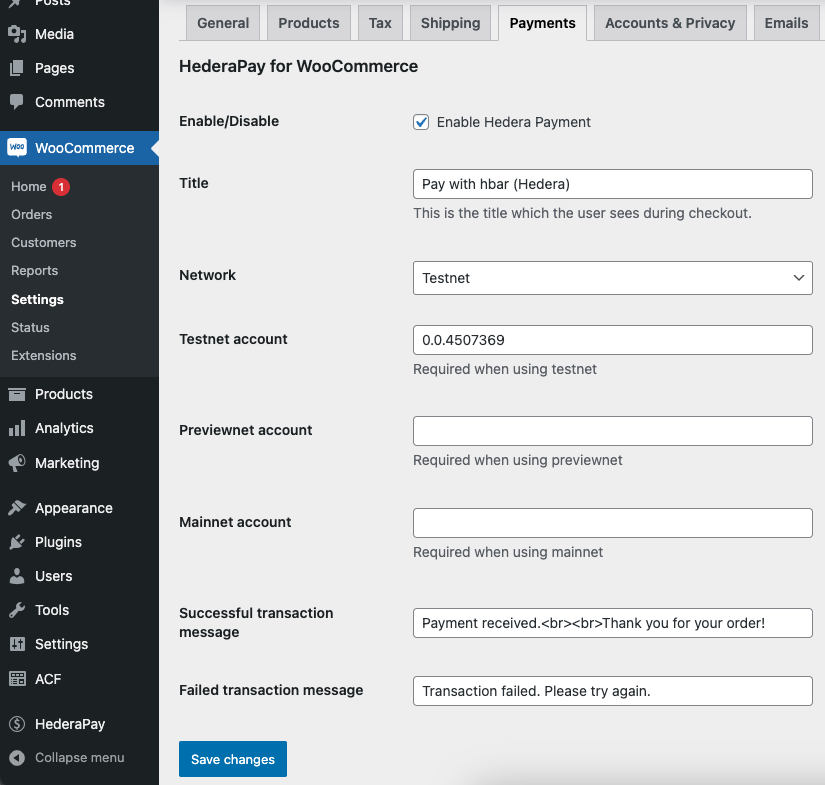
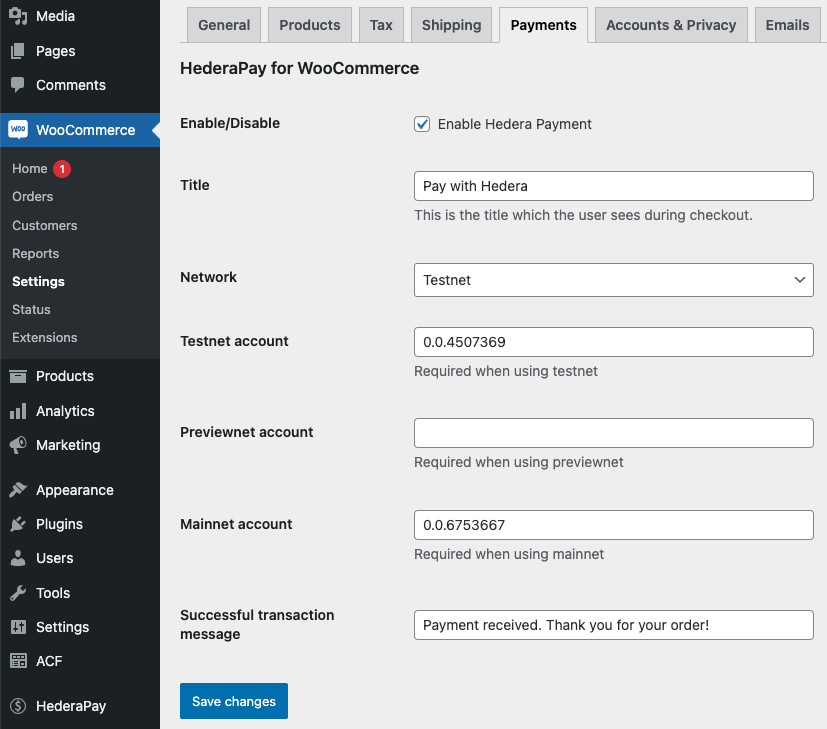
update hederapay readme

diff --git a/hederapay/gateway.php b/hederapay/gateway.php
@@ -53,7 +53,7 @@ class WC_Gateway_Hederapay extends WC_Payment_Gateway
             'success_message' => array(
                 'title' => 'Successful transaction message',
                 'type' => 'text',
-                'default' => 'Payment received.<br><br>Thank you for your order!',
+                'default' => 'Payment received. Thank you for your order!',
 
             ),
         );

diff --git a/hederapay/README.md b/hederapay/README.md
@@ -5,7 +5,7 @@ HederaPay allows users to integrate Hedera transactions into their WordPress web
 ## Dependencies (OPTIONAL)
 
 -   (OPTIONAL) [Advanced Custom Fields PRO](https://www.advancedcustomfields.com/pro/)
-    -   If ACF PRO is installed, the plugin adds easy to use Gutenberg blocks (these blocks have the same functionality as the shortcodes).
+    -   If ACF PRO is installed, the plugin adds an easy to use Gutenberg block (these blocks have the same functionality as the shortcodes).
 -   (OPTIONAL) [WooCommerce](https://woocommerce.com/)
     -   If WooCommerce is installed the HederaPay option is added to the Payment options in the WooCommerce check-out.
 
@@ -17,11 +17,11 @@ Download the [hederapay.zip](https://github.com/louweal/hellofuturehackathon/blo
 
 ## Configuration
 
-On the HederaPay settings page you can set your site-specific WalletConnect project ID\* and the metadata that is shown in the transaction modal.
+On the HederaPay settings page you can set your site-specific WalletConnect Project ID\* and the metadata that is shown in the transaction modal.
+
+\* You will need a WalletConnect Project ID. You can get one by going to [WalletConnect](https://cloud.walletconnect.com/) and setting up a new `WalletKit` project.
 
 ![Admin Settings](https://github.com/louweal/hellofuturehackathon/blob/master/hederapay/assets/admin-settings.png)
-
-> \* You will need a WalletConnect Project ID. You can get one by going to [WalletConnect](https://cloud.walletconnect.com/) and setting up a new `WalletKit` project.
 
 ## Configuration for WooCommerce shops
 
@@ -58,11 +58,9 @@ The currencies aren't case-sensitive.
 
 ##### Amount
 
-Amounts are converted to `HBAR` using the [CoinGecko API](https://docs.coingecko.com/v3.0.1/reference/simple-price). Subsequently, the `HBAR` amount is converted to `tinybar` and rounded to an integer value.
+Amounts are converted to `HBAR` using the [CoinGecko API](https://docs.coingecko.com/v3.0.1/reference/simple-price). Subsequently, the `HBAR` amount is converted to `tinybar` and rounded to an integer value. When no amount is provided an input-field appears in which the user can enter an amount.
 
 > 1 HBAR = 100.000.000 tinybar.
-
-When no amount is provided an `<input>` field appears in which the user can enter an amount.
 
 ##### Accounts
 
@@ -108,7 +106,7 @@ Useful when you want to allow the user to connect their wallet without sending a
 
 ### [hederapay_paired_account] _(optional)_
 
-Displays the Account ID of the paired wallet. It is hidden when no wallet is connected. Clicking the element opens the account in network inspector [Dragonglass](https://app.dragonglass.me/) in a new browser tab.
+Displays the Account ID of the paired wallet. It is hidden when no wallet is connected.
 
 ## Other Plugins by HashPress Pioneers
 
